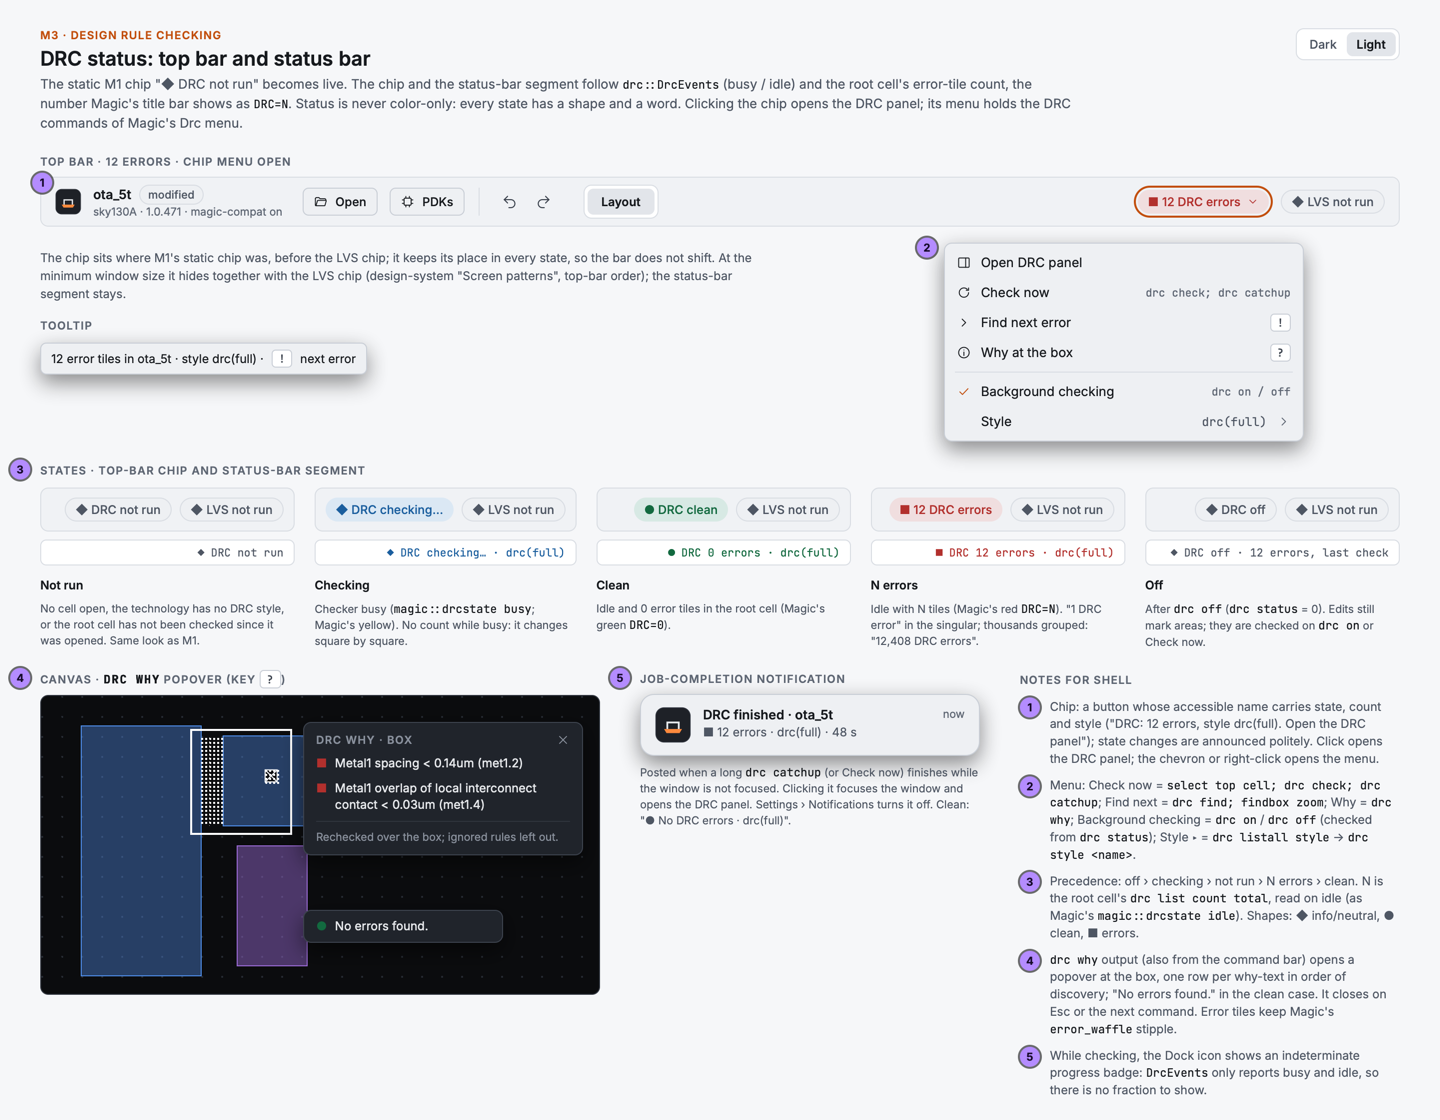
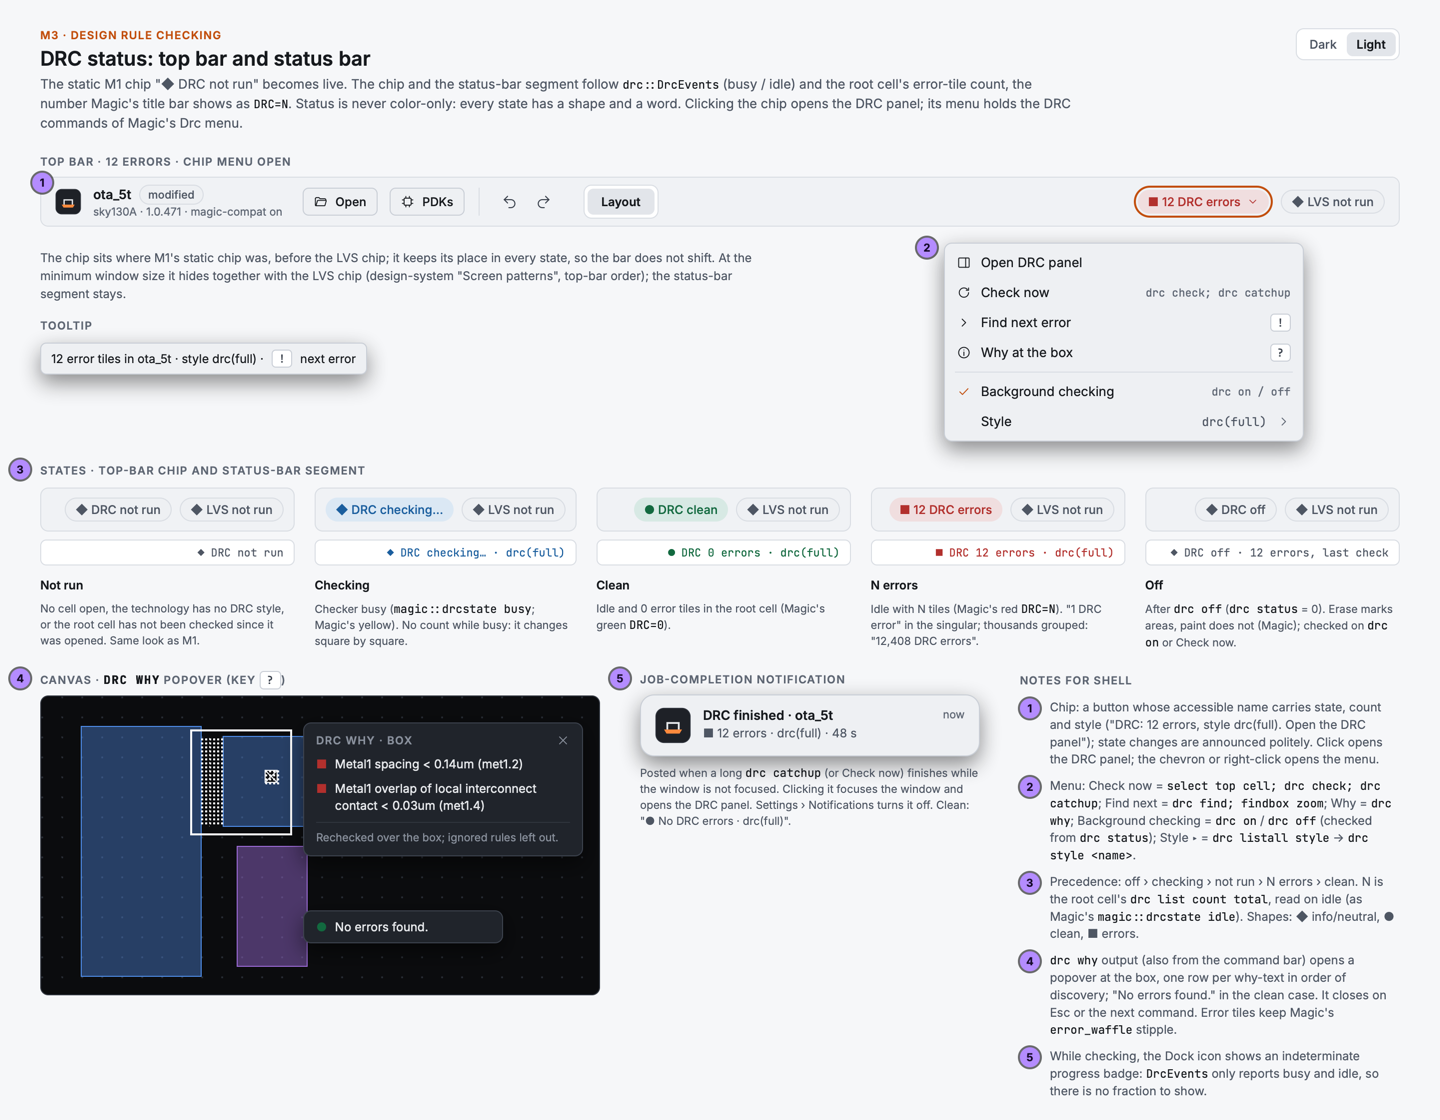
Correct the M3 DRC board notes and re-render the boards
M3-DRC-Status Off: erase marks areas under drc off, paint does not (as in
Magic). DRC-Browser: the list comes from the drc listall why logic called
directly on refresh (direct refresh approved 2026-11-10).

diff --git a/docs/design/mockups/DRC-Browser.dc.html b/docs/design/mockups/DRC-Browser.dc.html
@@ -92,7 +92,7 @@ font:400 12px Inter,sans-serif;color:var(--tp);white-space:nowrap;display:flex;a
 <div class="hf" data-theme="dark" style="width:1440px;height:1700px">
 <svg width="0" height="0" style="position:absolute" aria-hidden="true"><defs><symbol id="i-box" viewBox="0 0 24 24"><rect x="4" y="4" width="16" height="16" rx="1"/></symbol><symbol id="i-select" viewBox="0 0 24 24"><path d="M5 5l6 14 2-6 6-2z"/></symbol><symbol id="i-paint" viewBox="0 0 24 24"><path d="M4 20l4-1L19 8l-3-3L5 16z"/></symbol><symbol id="i-wire" viewBox="0 0 24 24"><path d="M4 18h6v-6h6V6"/><circle cx="16" cy="6" r="2"/></symbol><symbol id="i-label" viewBox="0 0 24 24"><path d="M5 7V5h14v2M12 5v14M9 19h6"/></symbol><symbol id="i-measure" viewBox="0 0 24 24"><path d="M3 16L16 3l5 5L8 21z"/><path d="M7 12l2 2M10 9l2 2M13 6l2 2"/></symbol><symbol id="i-place" viewBox="0 0 24 24"><rect x="6" y="4" width="12" height="16" rx="1"/><path d="M12 4v16M6 12h12"/></symbol><symbol id="i-undo" viewBox="0 0 24 24"><path d="M9 14L4 9l5-5"/><path d="M4 9h10a6 6 0 0 1 0 12h-3"/></symbol><symbol id="i-redo" viewBox="0 0 24 24"><path d="M15 14l5-5-5-5"/><path d="M20 9H10a6 6 0 0 0 0 12h3"/></symbol><symbol id="i-eye" viewBox="0 0 24 24"><path d="M2 12s3.6-6.5 10-6.5S22 12 22 12s-3.6 6.5-10 6.5S2 12 2 12z"/><circle cx="12" cy="12" r="2.8"/></symbol><symbol id="i-eyeoff" viewBox="0 0 24 24"><path d="M2 12s3.6-6.5 10-6.5S22 12 22 12s-3.6 6.5-10 6.5S2 12 2 12z"/><path d="M4 20L20 4"/></symbol><symbol id="i-lock" viewBox="0 0 24 24"><rect x="5" y="11" width="14" height="9" rx="1.5"/><path d="M8 11V8a4 4 0 0 1 8 0v3"/></symbol><symbol id="i-unlock" viewBox="0 0 24 24"><rect x="5" y="11" width="14" height="9" rx="1.5"/><path d="M8 11V8a4 4 0 0 1 7.6-1.7"/></symbol><symbol id="i-fit" viewBox="0 0 24 24"><path d="M4 9V4h5M15 4h5v5M20 15v5h-5M9 20H4v-5"/><rect x="9" y="9" width="6" height="6" rx="0.5"/></symbol><symbol id="i-open" viewBox="0 0 24 24"><path d="M3 7a2 2 0 0 1 2-2h4l2 2h8a2 2 0 0 1 2 2v1"/><path d="M3 7v11a1 1 0 0 0 1 1h14.5a1 1 0 0 0 1-.8L21.5 11a1 1 0 0 0-1-1.2H7.5a1 1 0 0 0-1 .8L4 19"/></symbol><symbol id="i-pdk" viewBox="0 0 24 24"><rect x="6" y="6" width="12" height="12" rx="1.5"/><path d="M9 3v3M15 3v3M9 18v3M15 18v3M3 9h3M3 15h3M18 9h3M18 15h3"/></symbol><symbol id="i-agent" viewBox="0 0 24 24"><path d="M12 3l1.8 4.6L18 9l-4.2 1.4L12 15l-1.8-4.6L6 9l4.2-1.4z"/></symbol><symbol id="i-history" viewBox="0 0 24 24"><path d="M4 12a8 8 0 1 0 2.4-5.7"/><path d="M4 4v4h4"/><path d="M12 8v4l3 2"/></symbol><symbol id="i-chevd" viewBox="0 0 24 24"><path d="M6 9l6 6 6-6"/></symbol><symbol id="i-chevr" viewBox="0 0 24 24"><path d="M9 6l6 6-6 6"/></symbol><symbol id="i-chevu" viewBox="0 0 24 24"><path d="M6 15l6-6 6 6"/></symbol><symbol id="i-chevl" viewBox="0 0 24 24"><path d="M15 6l-6 6 6 6"/></symbol><symbol id="i-close" viewBox="0 0 24 24"><path d="M6 6l12 12M18 6L6 18"/></symbol><symbol id="i-undock" viewBox="0 0 24 24"><path d="M14 4h6v6M20 4l-8 8"/><path d="M18 14v5a1 1 0 0 1-1 1H5a1 1 0 0 1-1-1V7a1 1 0 0 1 1-1h5"/></symbol><symbol id="i-dock" viewBox="0 0 24 24"><rect x="3" y="4" width="18" height="16" rx="1.5"/><path d="M15 4v16"/></symbol><symbol id="i-grip" viewBox="0 0 24 24"><path d="M9 6h.01M15 6h.01M9 12h.01M15 12h.01M9 18h.01M15 18h.01" stroke-width="2.4"/></symbol><symbol id="i-console" viewBox="0 0 24 24"><rect x="3" y="5" width="18" height="14" rx="1.5"/><path d="M7 10l3 2-3 2M12 15h5"/></symbol><symbol id="i-flag" viewBox="0 0 24 24"><path d="M5 21V4"/><path d="M5 4h12l-2.5 4L17 12H5"/></symbol><symbol id="i-palette" viewBox="0 0 24 24"><path d="M12 3a9 9 0 1 0 0 18c1.2 0 1.8-.8 1.8-1.7 0-1.3-1-1.6-1-2.6 0-.9.7-1.5 1.7-1.5H17a4 4 0 0 0 4-4c0-4.5-4-8.2-9-8.2z"/><circle cx="7.5" cy="11" r="1"/><circle cx="10" cy="7" r="1"/><circle cx="15" cy="7.5" r="1"/></symbol><symbol id="i-search" viewBox="0 0 24 24"><circle cx="11" cy="11" r="6"/><path d="M20 20l-4.5-4.5"/></symbol><symbol id="i-plus" viewBox="0 0 24 24"><path d="M12 5v14M5 12h14"/></symbol><symbol id="i-minus" viewBox="0 0 24 24"><path d="M5 12h14"/></symbol><symbol id="i-port" viewBox="0 0 24 24"><rect x="8" y="8" width="8" height="8" rx="1"/><path d="M12 3v5M12 16v5M3 12h5M16 12h5"/></symbol><symbol id="i-cell" viewBox="0 0 24 24"><rect x="3" y="3" width="18" height="18" rx="1.5"/><rect x="8" y="8" width="8" height="8" rx="0.5"/></symbol><symbol id="i-keyboard" viewBox="0 0 24 24"><rect x="2" y="6" width="20" height="12" rx="2"/><path d="M6 10h.01M10 10h.01M14 10h.01M18 10h.01M7 14h10"/></symbol><symbol id="i-trash" viewBox="0 0 24 24"><path d="M4 7h16M10 11v6M14 11v6M6 7l1 13h10l1-13M9 7V4h6v3"/></symbol><symbol id="i-copy" viewBox="0 0 24 24"><rect x="8" y="8" width="12" height="12" rx="1.5"/><path d="M16 8V5a1 1 0 0 0-1-1H5a1 1 0 0 0-1 1v10a1 1 0 0 0 1 1h3"/></symbol><symbol id="i-move" viewBox="0 0 24 24"><path d="M12 3v18M3 12h18M12 3l-3 3M12 3l3 3M12 21l-3-3M12 21l3-3M3 12l3-3M3 12l3 3M21 12l-3-3M21 12l-3 3"/></symbol><symbol id="i-rotate" viewBox="0 0 24 24"><path d="M20 12a8 8 0 1 1-2.3-5.7"/><path d="M20 4v4h-4"/></symbol><symbol id="i-flipx" viewBox="0 0 24 24"><path d="M12 3v18" stroke-dasharray="2 2"/><path d="M9 7L4 17h5zM15 7l5 10h-5z"/></symbol><symbol id="i-flipy" viewBox="0 0 24 24"><path d="M3 12h18" stroke-dasharray="2 2"/><path d="M7 9L17 4v5zM7 15l10 5v-5z"/></symbol><symbol id="i-net" viewBox="0 0 24 24"><circle cx="5" cy="12" r="2"/><circle cx="19" cy="6" r="2"/><circle cx="19" cy="18" r="2"/><path d="M7 12h5M12 6v12M12 6h5M12 18h5"/></symbol><symbol id="i-expand" viewBox="0 0 24 24"><path d="M4 4h6M4 4v6M20 20h-6M20 20v-6M4 4l6 6M20 20l-6-6"/></symbol><symbol id="i-check" viewBox="0 0 24 24"><path d="M5 12.5l4.5 4.5L19 7"/></symbol><symbol id="i-save" viewBox="0 0 24 24"><path d="M5 4h11l3 3v13H5z"/><path d="M8 4v5h7V4M8 20v-6h8v6"/></symbol><symbol id="i-crosshair" viewBox="0 0 24 24"><circle cx="12" cy="12" r="7"/><path d="M12 2v5M12 17v5M2 12h5M17 12h5"/></symbol><symbol id="i-warn" viewBox="0 0 24 24"><path d="M12 4l9 16H3z"/><path d="M12 10v4M12 17h.01"/></symbol><symbol id="i-info" viewBox="0 0 24 24"><circle cx="12" cy="12" r="9"/><path d="M12 11v6M12 7.5h.01"/></symbol><symbol id="i-restore" viewBox="0 0 24 24"><path d="M3 12a9 9 0 1 0 3-6.7"/><path d="M3 4v5h5"/><path d="M12 8v5h4"/></symbol><symbol id="i-edit" viewBox="0 0 24 24"><path d="M4 20h4L19 9l-4-4L4 16z"/><path d="M13 7l4 4"/></symbol><symbol id="i-array" viewBox="0 0 24 24"><rect x="3" y="3" width="7" height="7" rx="1"/><rect x="14" y="3" width="7" height="7" rx="1"/><rect x="3" y="14" width="7" height="7" rx="1"/><rect x="14" y="14" width="7" height="7" rx="1"/></symbol><symbol id="i-more" viewBox="0 0 24 24"><path d="M5 12h.01M12 12h.01M19 12h.01" stroke-width="2.6"/></symbol><symbol id="i-pin" viewBox="0 0 24 24"><path d="M9 4h6l-1 6 3 3H7l3-3z"/><path d="M12 13v7"/></symbol><pattern id="st-diff" width="6" height="6" patternUnits="userSpaceOnUse"><path d="M0 6L6 0" stroke="#3BB273" stroke-width="1"/></pattern><pattern id="st-poly" width="6" height="6" patternUnits="userSpaceOnUse"><path d="M0 0L6 6" stroke="#E0524F" stroke-width="1"/></pattern><pattern id="st-fb" width="6" height="6" patternUnits="userSpaceOnUse"><path d="M0 6L6 0" stroke="#FFFFFF" stroke-width="1"/></pattern><pattern id="dots" width="20" height="20" patternUnits="userSpaceOnUse"><circle cx="1" cy="1" r="1" fill="#2A2F37"/></pattern></defs></svg>
 <div style="padding:28px 40px 18px;display:flex;flex-direction:column;gap:6px">
-<header class="bh"><div class="t"><p class="cap" style="color:var(--acs)">M3 · Design rule checking</p><h1>DRC results browser</h1><p style="font-size:13px;color:var(--ts);max-width:1040px;line-height:1.5">The DRC panel docks beside the canvas and lists the root cell's errors grouped by why-text, as Magic's DRC manager does (<code class="c">select top cell</code> + <code class="c">drc listall why</code>). Every control issues a <code class="c">drc</code> command, so it is logged and replayable. The inspector shows the error area under the box. Later-milestone parts of the M1 board (measured versus required, nets, suggested fix, Fix with agent, sign-off) stay visible but disabled, each naming its milestone.</p></div><div class="seg th" role="radiogroup" aria-label="Board theme"><span class="d">Dark</span><span class="l">Light</span></div></header>
+<header class="bh"><div class="t"><p class="cap" style="color:var(--acs)">M3 · Design rule checking</p><h1>DRC results browser</h1><p style="font-size:13px;color:var(--ts);max-width:1040px;line-height:1.5">The DRC panel docks beside the canvas and lists the root cell's errors grouped by why-text, as Magic's DRC manager does (the <code class="c">drc listall why</code> logic, called directly on refresh). Every control the user operates issues a command, so it is logged and replayable. The inspector shows the error area under the box. Later-milestone parts of the M1 board (measured versus required, nets, suggested fix, Fix with agent, sign-off) stay visible but disabled, each naming its milestone.</p></div><div class="seg th" role="radiogroup" aria-label="Board theme"><span class="d">Dark</span><span class="l">Light</span></div></header>
 </div>
 <p class="cap" style="padding:0 40px 8px">Populated · stepping with Next (<code class="c">drc find 3</code>)</p>
 <div style="margin:0 40px;border:1px solid var(--bd);border-radius:8px;overflow:hidden;height:800px;display:flex;flex-direction:column;position:relative">
@@ -235,7 +235,7 @@ font:400 12px Inter,sans-serif;color:var(--tp);white-space:nowrap;display:flex;a
 <div style="padding:26px 40px 28px"><div class="notes"><p class="cap">Notes for SHELL</p><ul style="display:grid;grid-template-columns:1fr 1fr;gap:9px 40px">
 <li><span class="ann">1</span><span>Style selector lists <code>drc listall style</code> and issues <code>drc style &lt;name&gt;</code>. Error tiles were made under the previous style, so the list then marks itself stale. Re-check issues <code>select top cell; drc check; drc catchup</code> (Magic's DRC manager also selects the top cell first). Disabled while the checker is busy.</span></li>
 <li><span class="ann">2</span><span>Summary: error tiles are the root cell's <code>drc list count total</code>, the number Magic's title bar shows (<code>DRC=12</code>). Areas are the rectangles of <code>drc listall why</code>, which can be more than the tiles. Both are shown so neither looks wrong.</span></li>
-<li><span class="ann">3</span><span>Virtual Raven Table built from <code>select top cell</code> + <code>drc listall why</code> (200,000-row scenario). Groups are why-texts with their area count, sortable by text or count; their order from Magic is unspecified, so the default sort is by count. Expanding a group lists its rectangles in discovery order. Clicking one issues <code>box values …</code> + <code>findbox zoom</code>, as Magic's DRC manager does.</span></li>
+<li><span class="ann">3</span><span>Virtual Raven Table from the <code>drc listall why</code> logic, called directly on refresh (not logged; box and selection stay; 200,000-row scenario). Groups are why-texts with their area count, sortable by text or count; their order from Magic is unspecified, so the default sort is by count. Expanding a group lists its rectangles in discovery order. Clicking one issues <code>box values …</code> + <code>findbox zoom</code>, as Magic's DRC manager does.</span></li>
 <li><span class="ann">4</span><span>Ignored: <code>drc listall why</code> still returns ignored texts, so they are listed here, dimmed, with ◆ counts. Clear ignores issues <code>drc ignore none</code>; Magic has no command to unignore one rule. With magic-compat on, the last why-text of the style cannot be ignored (Q-DRC-17): it stays in the main list.</span></li>
 <li><span class="ann">5</span><span>Prev/Next issue <code>drc find k−1</code> / <code>drc find k+1</code> with an explicit index (wrapping n→1), so the first Next does not jump to #2 under magic-compat (Q-DRC-15). <code>#k of n</code>: k from the last <code>drc find</code>, n = error tiles. Keys stay Magic's (<code>!</code> = <code>drc find; findbox zoom; zoom 16</code>).</span></li>
 <li><span class="ann">6</span><span>Canvas: error tiles in Magic's <code>error_waffle</code> style (white offset waffle, stipple 4), the box on the found tile, and a canvas-token tag with <code>#k</code> and the why-text of <code>drc find</code>. The group and rectangle rows that overlap the box are highlighted.</span></li>

diff --git a/docs/design/mockups/M3-DRC-Status.dc.html b/docs/design/mockups/M3-DRC-Status.dc.html
@@ -150,7 +150,7 @@ font:400 12px Inter,sans-serif;color:var(--tp);white-space:nowrap;display:flex;a
 <div style="display:flex;flex-direction:column;gap:8px">
 <div style="height:44px;display:flex;align-items:center;justify-content:flex-end;gap:8px;padding:0 10px;border:1px solid var(--bd);border-radius:8px;background:var(--bar)"><span class="chip n">◆ DRC off</span><span class="chip n">◆ LVS not run</span></div>
 <div style="height:26px;display:flex;align-items:center;justify-content:flex-end;padding:0 10px;border:1px solid var(--bd);border-radius:6px;background:var(--in);font:400 11px 'JetBrains Mono',monospace;color:var(--ts);white-space:nowrap">◆ DRC off · 12 errors, last check</div>
-<p style="font-size:12px;font-weight:600;margin-top:4px">Off</p><p style="font-size:11px;color:var(--ts);line-height:1.45">After <code class="c">drc off</code> (<code class="c">drc status</code> = 0). Edits still mark areas; they are checked on <code class="c">drc on</code> or Check now.</p></div>
+<p style="font-size:12px;font-weight:600;margin-top:4px">Off</p><p style="font-size:11px;color:var(--ts);line-height:1.45">After <code class="c">drc off</code> (<code class="c">drc status</code> = 0). Erase marks areas, paint does not (Magic); checked on <code class="c">drc on</code> or Check now.</p></div>
 </div></div>
 
 <div style="display:flex;gap:40px;align-items:flex-start">
